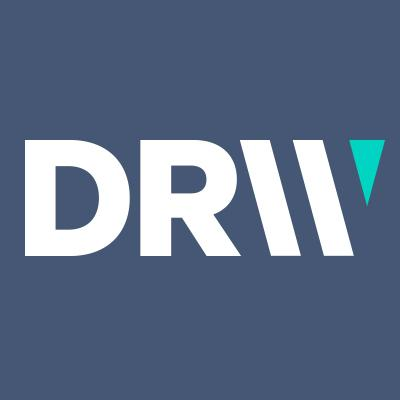
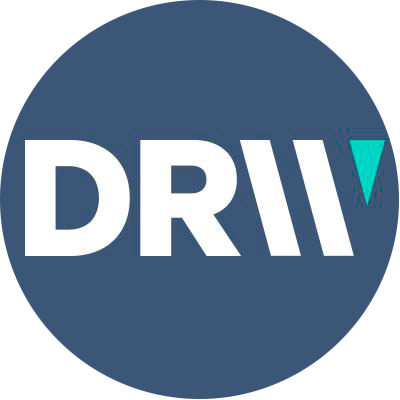
Formatting changes, circular pictures

Changed region(s): [[0.0, 0.0, 1.0, 1.0], [0.0, 0.0, 0.45, 0.45], [0.84, 0.3, 0.87, 0.33]]

diff --git a/_sass/devlog.scss b/_sass/devlog.scss
@@ -55,7 +55,7 @@ header {
 .blog-post:hover {
     box-shadow: 0 14px 28px rgba(0,0,0,0.25), 0 10px 10px rgba(0,0,0,0.22);
   }
-  
+
 .social-link {
     color: #262222;
     font-size: 15px;
@@ -99,10 +99,27 @@ footer {
     color:#fff;
 }
 
+//////////////////////////////////////////////
+// Added by Mo
+// .col-md-2 {
+//     vertical-align: middle;
+//     margin-top: auto;
+//     margin-bottom: auto;
+//     margin-left: auto;
+//     margin-right: auto;
+//     display: block;
+// }
+
 .company-logo {
     width: 100px;
     height: 100px;
+    margin-left: auto;
+    margin-right: auto;
+    margin-top: auto;
+    margin-bottom: auto;
+    display: block;
 }
+//////////////////////////////////////////////
 
 .project-img {
     width: 300px;
@@ -176,17 +193,17 @@ $layout--max-width: 1000px;
       @content;
     }
   }
-  
+
   @mixin ms {
     @media (min-width: #{$layout--max-width}) {
       @content;
     }
   }
-  
+
   @mixin button-hover($color) {
     position: relative;
     z-index: 2;
-  
+
     &:hover {
       transition: 0.2s all;
       background-color: darken($color, 10%);
@@ -194,7 +211,7 @@ $layout--max-width: 1000px;
         transform: scale(1.1, 1.5);
       }
     }
-  
+
     &:before {
       content: " ";
       position: absolute;
@@ -229,31 +246,31 @@ $layout--max-width: 1000px;
     padding-top: $size--unit * 4;
     padding-bottom: $size--unit * 4;
     border-bottom: 1px solid $color--light;
-  
+
     &__container {
       display: flex;
       justify-content: center;
       @include fit-to-layout-and-center;
     }
-  
+
     &__branding {
       all: unset;
       display: flex;
       justify-content: center;
       align-items: center;
     }
-  
+
     &__logo {
       max-height: $size--unit*4;
       margin-right: $size--unit*1;
     }
-  
+
     &__title {
       font-weight: bold;
       font-size: $size--unit * 3;
       cursor: pointer;
     }
-  
+
     &__checkout {
       all: unset;
       cursor: pointer;
@@ -265,7 +282,7 @@ $layout--max-width: 1000px;
         margin-right: $size--unit * 1;
       }
     }
-  
+
     &__checkout-fill {
       fill: $color--primary;
     }
@@ -311,12 +328,12 @@ $layout--max-width: 1000px;
     }
 }
 
-  
-  /* 
+
+  /*
     ##Device = Low Resolution Tablets, Mobiles (Landscape)
     ##Screen = B/w 481px to 767px
   */
-  
+
   @media (min-width: 481px) and (max-width: 767px) {
 
     #mc-embedded-subscribe-form{
@@ -349,7 +366,7 @@ $layout--max-width: 1000px;
     }
 
   }
-/* 
+/*
   ##Device = Tablets, Ipads (portrait)
   ##Screen = B/w 768px to 1024px
 */
@@ -416,13 +433,13 @@ $layout--max-width: 1000px;
 
 }
 
-  /* 
+  /*
     ##Device = Laptops, Desktops
     ##Screen = B/w 1025px to 1280px
   */
-  
+
   @media (min-width: 1025px) and (max-width: 1280px) {
-    
+
     #mc-embedded-subscribe-form{
         width: 100%;
         padding: 50px;
@@ -448,7 +465,7 @@ $layout--max-width: 1000px;
     }
 
   }
- /* 
+ /*
   ##Device = Desktops
   ##Screen = 1281px to higher resolution desktops
 */
@@ -460,7 +477,7 @@ $layout--max-width: 1000px;
         width: 100%;
         padding: 50px;
     }
-    
+
     #mc_embed_signup_scroll_footer{
         margin-left:25%;
         margin-right: 25%;
@@ -479,7 +496,7 @@ $layout--max-width: 1000px;
     #mc-embedded-subscribe_footer{
         margin-top: 30px;
     }
-    
+
 
 }
  /* (1920x1080) Full HD Display */
@@ -489,7 +506,7 @@ $layout--max-width: 1000px;
         width: 100%;
         padding: 50px;
     }
-    
+
     #mc_embed_signup_scroll_footer{
         margin-left:25%;
         margin-right: 25%;
@@ -579,5 +596,4 @@ $layout--max-width: 1000px;
 .highlight .vg { color: #aa0000 } /* Name.Variable.Global */
 .highlight .vi { color: #aa0000 } /* Name.Variable.Instance */
 .highlight .vm { color: #aa0000 } /* Name.Variable.Magic */
-.highlight .il { color: #009999 } /* Literal.Number.Integer.Long */ 
-
+.highlight .il { color: #009999 } /* Literal.Number.Integer.Long */

diff --git a/_layouts/about_me.html b/_layouts/about_me.html
@@ -52,6 +52,7 @@ layout: default
                             <h4 class="experience-title"> {{detail.college_degree }}</h4>
                             <h6 class="experience-info">{{detail.college_name}}</h6>
                             <p class="experience-desc"> {{detail.description}} </p>
+                            <br />
                         </div>
                     </div>
                     {% endif %}
@@ -59,6 +60,7 @@ layout: default
                     {% endfor %}
             </div>
             {% endif %}
+
 
             {% if site.show_author_work_experiences == true %}
             <div class="card">
@@ -93,9 +95,6 @@ layout: default
                 <h1 class="card-title"> Accomplishments </h1>
                 <br />
                 <div class="row">
-                  <div class="col-md-1">
-                    <!-- Empty div for formatting -->
-                  </div>
                   <div class="col-md-10">
                     In my life, I've done a few things of which I'm particularly proud, largely because they required several years of sustained effort:
                     <ul>
@@ -165,7 +164,7 @@ layout: default
                     <!-- Empty div for formatting -->
                   </div>
                   <div class="col-md-10">
-                    Note: my legal name is "Mohit Tiwari" - I am not to be confused with <a href="https://users.ece.utexas.edu/~tiwari/">Mohit Tiwari</a>.
+                    Note: I publish under "Mo Tiwari", though my legal name is "Mohit Tiwari" - I am not to be confused with <a href="https://users.ece.utexas.edu/~tiwari/">Mohit Tiwari</a>.
                   </div>
                 </div>
             </div>
